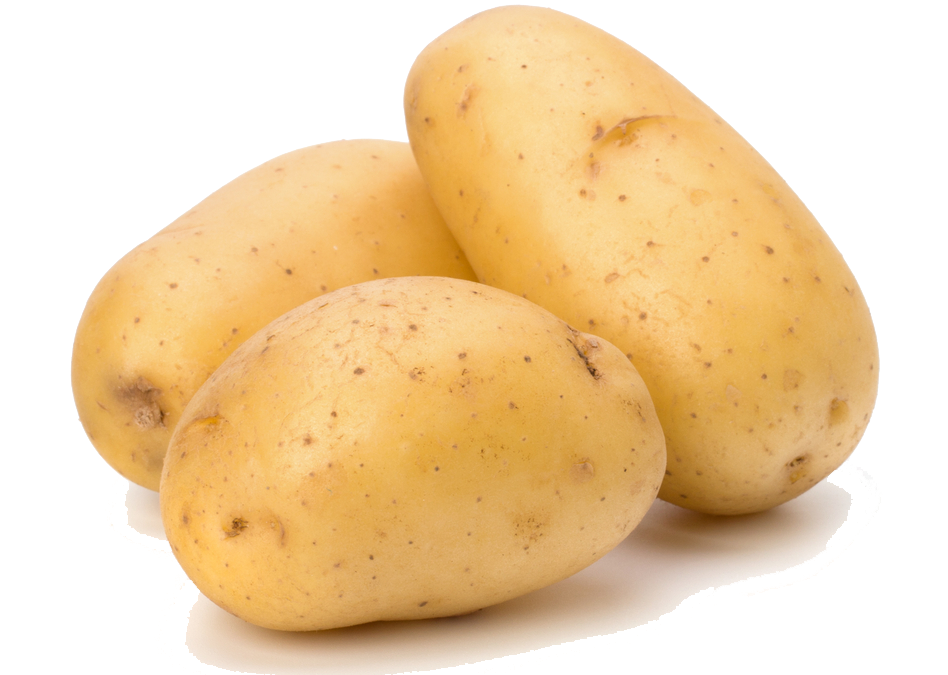
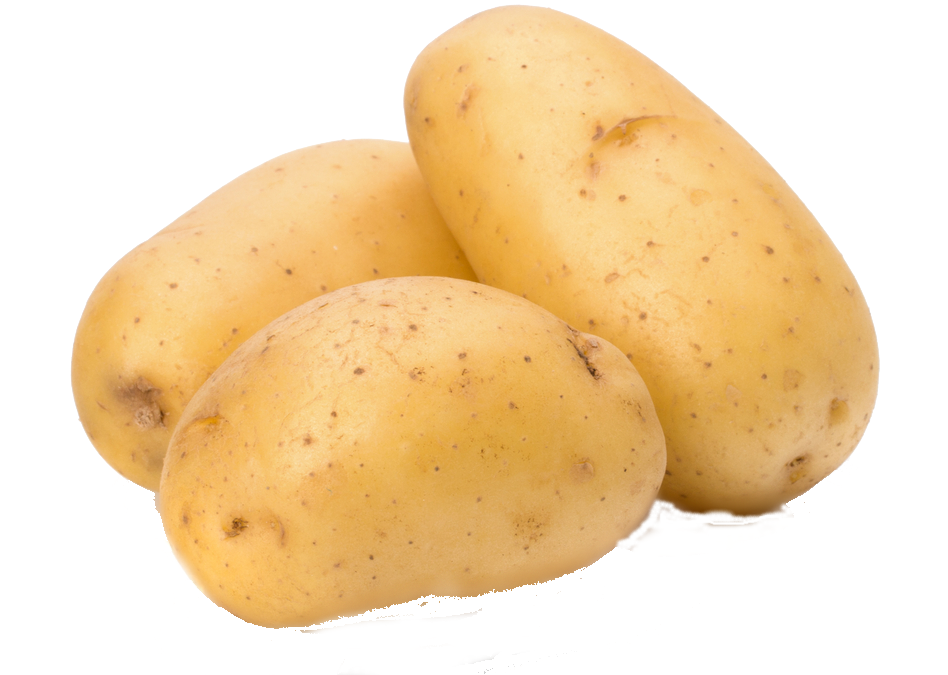
added styling for headers and retouched the potato main photo

Changed region(s): [[0.1835, 0.7156, 0.9177, 1.0], [0.1224, 0.7156, 0.1835, 0.8089]]

diff --git a/responsive/landing/index.html b/responsive/landing/index.html
@@ -6,7 +6,8 @@
     <meta name="viewport" content="width=device-width, initial-scale=1">
     <script src="app/js/landing.js"></script>
     <link rel="stylesheet" type="text/css" href="app/css/landing.css">
-    <link href="https://fonts.googleapis.com/css2?family=Source+Sans+Pro&display=swap" rel="stylesheet">
+    <link href="https://fonts.googleapis.com/css2?family=Raleway:wght@100;300;400;600;700&display=swap"
+        rel="stylesheet">
 </head>
 
 <body>
@@ -24,14 +25,15 @@
     <div class="grid-container">
         <div>dummy</div>
         <div class="land-1">
-            <h1>"Sweet, Nutritious and Delcious"</h1>
-            <h2>The key to happines is hidden in the Potato</h2>
-            <div> <img class="potato-img" src="./assets/potatos.png" /></div>
+            <div class="land-1-headers">
+                <h1>"Sweet, Nutritious and Delcious"</h1>
+                <h2>The key to happines is hidden in the Potato</h2>
+            </div>
+             <img class="potato-img" src="./assets/potatos.png" />
         </div>
         <div class="land-2">
 
-            <iframe class="embeddedVideo" id="video"
-                src="https://www.youtube.com/embed/4JdWEQ-4Y-w" frameborder="0"
+            <iframe class="embeddedVideo" id="video" src="https://www.youtube.com/embed/4JdWEQ-4Y-w" frameborder="0"
                 allow="accelerometer; autoplay; clipboard-write; encrypted-media; gyroscope; picture-in-picture"
                 allowfullscreen>
             </iframe>
@@ -52,7 +54,7 @@
 
             <div class="subscriptions-section">
 
-                <div class="subscriptions-title">Order one (or more) today!</div>
+                <h1 >Order one (or more) today!</h1>
                 <div class="subscriptions-cards">
                     <div class="card">
                         <div class="card-title">Potato Lite</div>
@@ -61,17 +63,13 @@
                             <li>Highly portable</li>
                             <li>Unapollogectialy delcious</li>
                         </ul>
-                        <div class="card-btn">
-                            <button>ORDER</button>
-                        </div>
-                      
+                        <button class="card-btn">ORDER</button>
+
                         <div class="card-details">
                             starting at $9.99
                         </div>
-                    <div class="card-img">
                             <img src="assets/sweet_potato.png" />
-                        </div>
-                 
+
                     </div>
                     <div class="card-divider"></div>
                     <div class="card">
@@ -82,9 +80,7 @@
                             <li>Unapollogectialy delcious</li>
                             <li>Very nutritious</li>
                         </ul>
-                        <div class="card-btn">
-                            <button>ORDER</button>
-                        </div>
+                        <button class="card-btn">ORDER</button>
                         <div class="card-details">
                             starting at $19.99
                         </div>
@@ -101,9 +97,7 @@
                             <li>Unapollogectialy delcious</li>
                             <li>Very nutritious</li>
                         </ul>
-                        <div class="card-btn">
-                            <button>ORDER</button>
-                        </div>
+                        <button class="card-btn">ORDER</button>
                         <div class="card-details">
                             starting at $39.99
                         </div>

diff --git a/responsive/landing/app/css/landing.css b/responsive/landing/app/css/landing.css
@@ -28,6 +28,8 @@ footer, header, hgroup, menu, nav, section {
 }
 body {
   line-height: 1;
+  font-family: 'Raleway',
+  sans-serif;
 }
 ol, ul {
 	list-style: none;
@@ -52,14 +54,30 @@ table {
 
 .land-1 {
   display: grid;
-  grid-template-rows: 0.1fr 0.1fr 1fr;
-  background-color: #b29983;
+  grid-template-rows: 1fr 3fr;
+  background: radial-gradient(circle, rgba(178, 153, 131, 1) 33%, rgba(163, 128, 98, 1) 100%);
   justify-items: center;
-
+  align-items: center;
+  color: white;
   }
 
   h1 {
-    font-size: 2em;
+    font-size: 1.25em;
+    font-weight: 500;
+    text-align: center;
+    padding: 3px;
+  }
+
+  h2 {
+    font-size: 0.85em;
+    font-weight: 200;
+    text-align: center;
+
+  }
+
+  .land-1 img {
+    max-width: 80%;
+    height: auto;
   }
 
   .land-4 {
@@ -92,24 +110,28 @@ table {
    height: 100%;
  }
 
- h1, h2{
-  font-family: 'Source Sans Pro', sans-serif;
-  color: white;
- }
+
  .subscriptions-cards {
    display: grid;
    grid-template-rows: 1fr 0.1fr 1fr 0.1fr 1fr;
    justify-items: center;
    align-items: center;
    width: 100%;
- }
+   }
+
+   .subscriptions-section>* {
+     color: #696969;
+   }
 
  .card-divider {
    width: 100%;
    border: solid 1px black;
  }
+ .card-btn {
+   border-radius: 25px;
+ }
 
- img {
-   max-width:100%;
+ .card img {
+   max-width: 70%;
    height: auto;
  }
